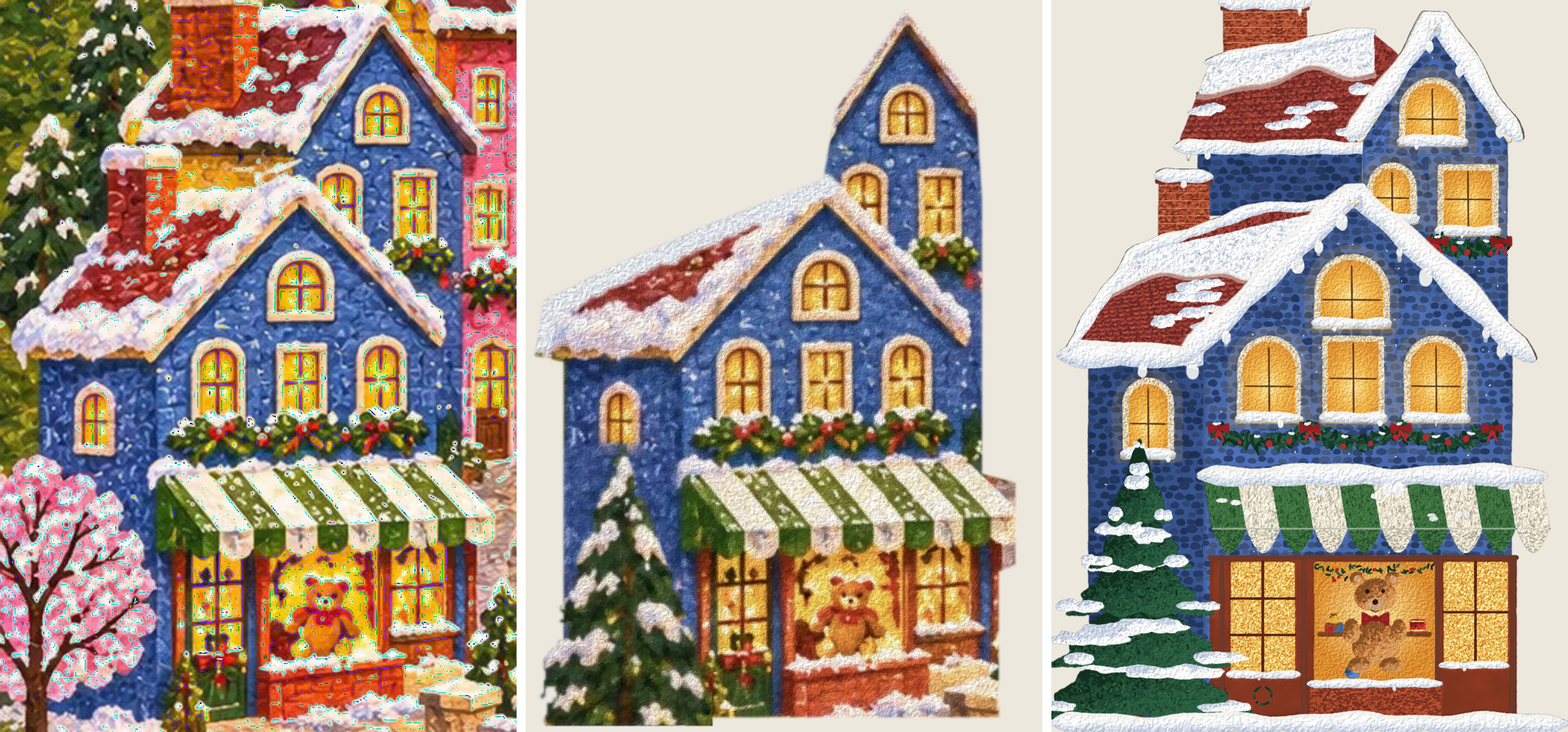
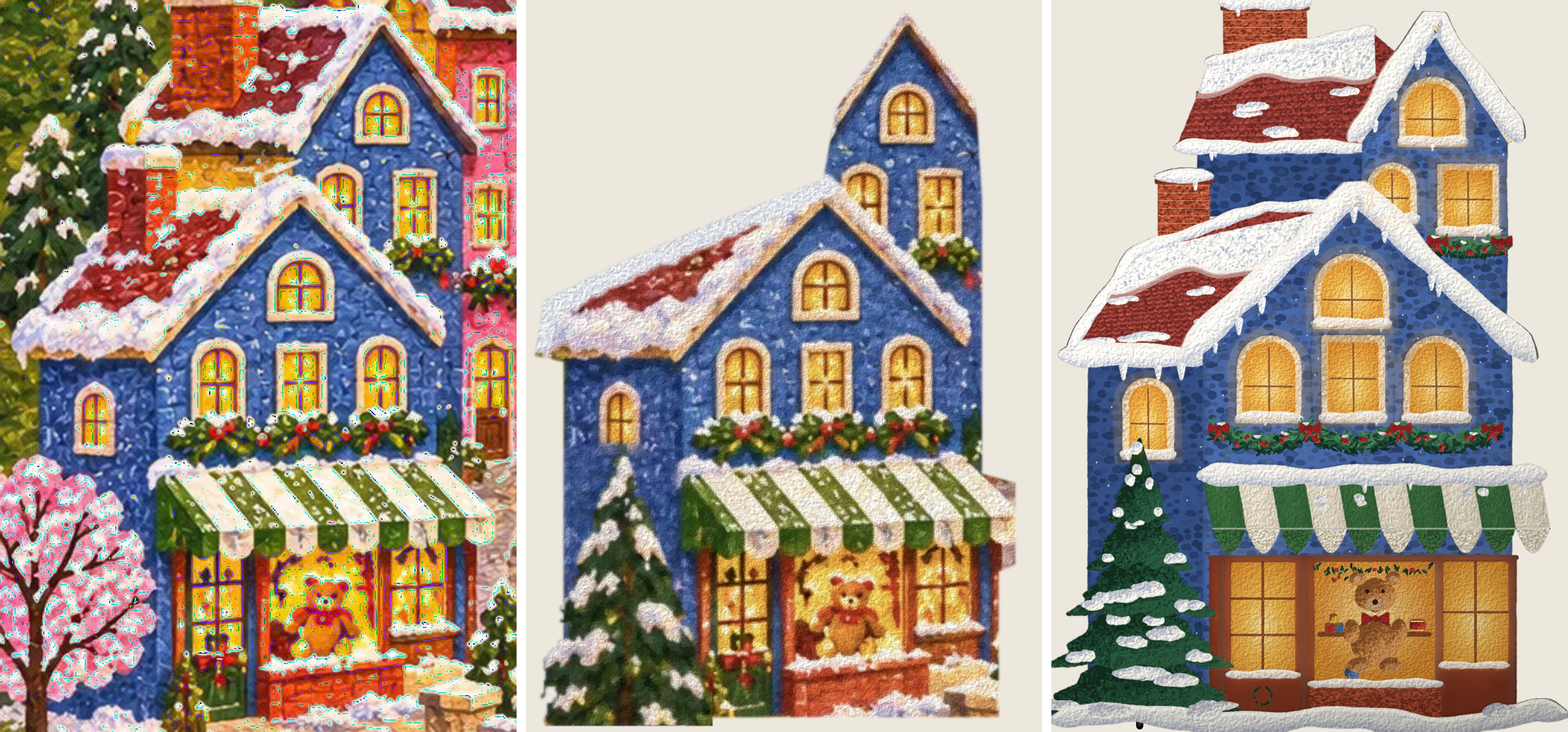
Blue shop v3: lighting pass, window glow on walls, snowy fir rebuilt, tongue drips, banked ground snow, fuller garland, sugary snow
Claude-Session: https://claude.ai/code/session_017tNAHgSCzTbES1SzX2uUW2

Changed region(s): [[0.6562, 0.0311, 1.0, 1.0]]

diff --git a/usmap/closeup/toytown/build_blue_shop.py b/usmap/closeup/toytown/build_blue_shop.py
@@ -30,11 +30,11 @@ R = np.random.RandomState(12)
 BLUE, BLUE_D, BLUE_L = '#4a6cb0', '#37548f', '#6c8ac6'
 CREAM, CREAM_D = '#ecdcbd', '#c9b48f'
 ROOF, ROOF_D = '#953a33', '#6e2925'
-SNOW, SNOW_S, SNOW_H = '#f1f3f7', '#c4cfe0', '#ffffff'
+SNOW, SNOW_S, SNOW_H = '#f3f1ec', '#c6cbd8', '#fffcf5'
 GOLD, GOLD_C, GOLD_E = '#f0b64e', '#fbe19a', '#d98a2e'
 BAR = '#5e3319'
 BRICK, BRICK_D = '#ad4c30', '#7e3220'
-GREEN_A, WHITE_A, GREEN_AD = '#3f7340', '#ece5d2', '#2b5530'
+GREEN_A, WHITE_A, GREEN_AD = '#3f7340', '#f2ead6', '#2b5530'
 WOOD, WOOD_D = '#86361f', '#5e2414'
 NEEDLES = ['#173a29', '#1f4a33', '#2a5e40', '#12301f']
 BERRY = '#b8262a'
@@ -96,13 +96,14 @@ def snow_edge(pts, thick=7.0, drip=.25, under=True):
         col = np.where(k < .5, S1 * (1 - k * 2) + S2 * (k * 2), S2 * (2 - k * 2) + S3 * (k * 2 - 1))
         return np.clip(col * (1 + (r.rand(len(X), 1) - .5) * .05), 0, 1)
     c.stip(m, scol, spacing=1.0, L=2.4, w=1.5, seed=int(R.randint(1 << 20)), jit=.5, thresh=.3)
+    sparkle(m, 1.0)
     if drip:
         idx = sorted(R.choice(np.arange(2, max(3, len(lo) - 2)), size=max(1, int(len(lo) * drip / 6)), replace=False))
         for q in [lo[i] for i in idx]:
             if True:
-                g = R.uniform(.6, 1.4)
-                A(lump(q[0], q[1] + thick * .25 * g, thick * .26 * g, thick * .45 * g, amp=.08), SNOW, wob=.15, rough=.4, edge_dark=.0)
-                S([(q[0], q[1] + thick * .15), (q[0], q[1] + thick * .55)], thick * .2, SNOW_S, a=.35, dry=.4)
+                g = R.uniform(.6, 1.3)          # a soft drip: a tapered tongue of snow, shaded on its right
+                tongue = [(q[0] - thick * .22 * g, q[1] - 1), (q[0] + thick * .22 * g, q[1] - 1), (q[0] + thick * .08 * g, q[1] + thick * .7 * g), (q[0] - thick * .04 * g, q[1] + thick * .75 * g)]
+                shaded(tongue, [SNOW_H, SNOW, SNOW_S], light=(-1, 0), wob=.1, rough=.3, edge_dark=.0, L=1.4, w=1.0)
     S([tuple(q + np.array([0, thick * .12])) for q in up[1:-1]], thick * .28, SNOW_H, a=.6, dry=.45, taper=(.3, .3))
 
 def eave_shadow(pts, thick=8.0, col=None):
@@ -126,16 +127,29 @@ def shaded(pts, cols, light=(-.6, -.8), a=1.0, spacing=.9, L=1.8, w=1.2, **kw):
     c.stip(m, f, spacing=spacing, L=L, w=w, seed=int(R.randint(1 << 20)), jit=.5, thresh=.3)
     return m
 
-def snow_clump(cx, cy, rx, ry, ang=0.0):
+def sparkle(m, density=1.0):
+    """Sugary snow: a scatter of tiny bright crystals and a few cool glints over a snow area."""
+    if m is None: return
+    x0, y0, mm = m; ys, xs = np.nonzero(mm > .8)
+    if len(xs) == 0: return
+    n = int(len(xs) * density / (K * K * 18))
+    for k in R.choice(len(xs), min(n, len(xs)), replace=False):
+        px, py = (xs[k] + x0) / K, (ys[k] + y0) / K
+        c.dab(px, py, R.uniform(.5, 1.1), R.uniform(.45, .75), R.uniform(0, 3), '#ffffff' if R.rand() < .8 else '#dfe8f6', a=.9, dry=0)
+
+def snow_clump(cx, cy, rx, ry, ang=0.0, shadow=None):
     """An irregular clump of snow: two or three overlapping soft heaps, never a neat oval."""
     ca, sa = math.cos(ang), math.sin(ang)
+    if shadow:                                  # the shade the heap casts on what it rests on
+        c.area(T(lump(cx + 1, cy + ry * .55, rx * .95, ry * .5, amp=.1)), hexc(shadow), wob=.2, rough=.5, edge_dark=0, a=.45, var=0, varbig=0, seed=int(R.randint(1 << 20)))
     for k in range(R.randint(2, 4)):
         u = R.uniform(-.55, .55); px, py = cx + ca * rx * u, cy + sa * rx * u - R.uniform(0, ry * .35)
         snow_lump(px, py, rx * R.uniform(.45, .7), ry * R.uniform(.7, 1.0))
 
 def snow_lump(cx, cy, rx, ry):
     """A soft heap of snow: white, lit on top, blue-grey in its lower curve."""
-    shaded(lumpy(cx, cy, rx, ry, int(R.randint(1 << 20)), n=22, bumps=6, amp=.28, flat=.3), [SNOW_H, SNOW, SNOW_S], wob=.3, rough=.6, edge_dark=.0, L=2.0, w=1.3)
+    m = shaded(lumpy(cx, cy, rx, ry, int(R.randint(1 << 20)), n=22, bumps=6, amp=.24, flat=.18), [SNOW_H, SNOW, SNOW_S], wob=.3, rough=.6, edge_dark=.0, L=2.0, w=1.3)
+    sparkle(m, .6)
 
 # ---- walls: gouache ground, then stippled stucco in three blues, flecks of snow ----
 def wall(pts, base, dark=False, fleck=.0):
@@ -149,11 +163,12 @@ def wall(pts, base, dark=False, fleck=.0):
     for gy in np.arange(y0 / K + Y0, (y0 + h) / K + Y0, sp * .8):
         off = R.uniform(0, sp)
         for gx in np.arange(x0 / K + X0 - off, (x0 + w) / K + X0, sp):
-            px, py = gx + R.uniform(-1.5, 1.5), gy + R.uniform(-1.2, 1.2)
+            px, py = gx + R.uniform(-2.4, 2.4), gy + R.uniform(-1.8, 1.8)
             ix, iy = int((px - X0) * K) - x0, int((py - Y0) * K) - y0
             if not (0 <= ix < w and 0 <= iy < h) or mm[iy, ix] < .3: continue
-            c.area(T(lump(px, py, R.uniform(2.8, 4.0), R.uniform(2.2, 3.1), amp=.18)), cols[R.randint(len(cols))], wob=.15, rough=.5,
-                   edge_dark=.38, var=.05, a=.9, seed=int(R.randint(1 << 20)))
+            sz = R.uniform(.7, 1.35)
+            c.area(T(lump(px, py, R.uniform(2.6, 3.8) * sz, R.uniform(2.0, 3.0) * sz, amp=.22)), cols[R.randint(len(cols))], wob=.2, rough=.6,
+                   edge_dark=.3, var=.05, a=.85, seed=int(R.randint(1 << 20)))
     c.clipm = prev
     if fleck:
         ys, xs = np.nonzero(mm > .6)
@@ -194,10 +209,10 @@ def roof(pts, base=ROOF, snowy=.6, ridge=None, eave=None):
         S(bot, 3.0, SNOW_H, a=.6, dry=.35, taper=(.2, .2))
         # drifts lying across the tiles below the blanket: soft, elongated along the slope's contour
         dirx = rb - ra; dirx = dirx / np.linalg.norm(dirx)
-        for _ in range(int(np.linalg.norm(rb - ra) / 14)):
+        for _ in range(int(np.linalg.norm(rb - ra) / 22)):
             t = R.uniform(.05, .95); u = R.uniform(snowy + .1, .9)
             a = ra + (rb - ra) * t; b = ea + (eb - ea) * t; p = a + (b - a) * u
-            snow_clump(p[0], p[1], R.uniform(10, 18), R.uniform(3.2, 4.8), math.atan2(dirx[1], dirx[0]))
+            snow_clump(p[0], p[1], R.uniform(10, 16), R.uniform(2.4, 3.4), math.atan2(dirx[1], dirx[0]), shadow=ROOF_D)
     return m
 
 # ---- windows: cream frame, glowing glass, bars, a sill with snow ----
@@ -210,7 +225,7 @@ def window(x0, y0, x1, y1, arched=True, bars=(1, 1), frame=4.0):
     halo = poly(x0 - frame - 6, y0 - frame - 6, x1 + frame + 6, y1 + frame + 4)
     c.area(T(halo), hexc('#f0b860'), wob=.6, rough=.8, edge_dark=0, a=.16, var=.0, varbig=.0, seed=int(R.randint(1 << 20)))
     fm = A(poly(x0 - frame, y0 - frame, x1 + frame, y1 + frame * .5), CREAM, wob=.25, rough=.5, edge_dark=.18)
-    stip(fm, [CREAM, CREAM, CREAM_D], spacing=.9, L=1.5, w=1.0)
+    shaded(poly(x0 - frame, y0 - frame, x1 + frame, y1 + frame * .5), [CREAM, CREAM, CREAM_D], wob=.25, rough=.5, edge_dark=.12, spacing=1.0, L=2.4, w=1.6)
     gm = A(poly(x0, y0, x1, y1), GOLD, wob=.15, rough=.4, edge_dark=.0)
     cx, cy = (x0 + x1) / 2 - X0, (y0 + y1) / 2 - Y0 + (y1 - y0) * .12; hw, hh = (x1 - x0) / 2, (y1 - y0) / 2
     C0, C1, C2 = hexc(GOLD_C), hexc(GOLD), hexc(GOLD_E)
@@ -237,21 +252,39 @@ def window(x0, y0, x1, y1, arched=True, bars=(1, 1), frame=4.0):
     A([(x0 - frame - 2, y1 + frame * .5), (x1 + frame + 2, y1 + frame * .5), (x1 + frame + 1, y1 + frame * .5 + 3.5), (x0 - frame - 1, y1 + frame * .5 + 3.5)], CREAM_D, wob=.1, rough=.3)
     snow_cap(x0 - frame - 2, x1 + frame + 2, y1 + frame * .5 - .5, 5.0)
 
+def glass(m, cx, cy, hw, hh):
+    """Lit glass: a warm glow, brightest a little below the middle, deeper gold toward the frame."""
+    cx -= X0; cy -= Y0; C0, C1, C2 = hexc(GOLD_C), hexc(GOLD), hexc(GOLD_E)
+    def f(X, Y, r):
+        d = np.clip(np.hypot((X - cx) / hw, (Y - cy) / hh), 0, 1.4)[:, None]
+        col = np.where(d < .6, C0 * (1 - d / .6) + C1 * (d / .6), C1 * np.clip(1.4 - d, 0, 1) / .8 + C2 * np.clip(d - .6, 0, .8) / .8)
+        return np.clip(col * (1 + (r.rand(len(X), 1) - .5) * .05), 0, 1)
+    c.stip(m, f, spacing=.75, L=1.6, w=1.1, seed=int(R.randint(1 << 20)), jit=.5)
+
 # ---- greenery: a garland of needle dabs, berries, little bows, a dusting of snow ----
 def garland(x0, x1, y, sag=6.0, swags=3, bows=True):
     pts = []
     for i in range(swags):
         a, b = x0 + (x1 - x0) * i / swags, x0 + (x1 - x0) * (i + 1) / swags
         for t in np.linspace(0, 1, 9): pts.append((a + (b - a) * t, y + sag * math.sin(math.pi * t)))
-    for (px, py) in pts:
-        for _ in range(16):
-            ang = R.uniform(0, math.pi); ln = R.uniform(5, 8)
-            c.dab(px - X0 + R.uniform(-5, 5), py - Y0 + R.uniform(-4.5, 4.5), ln, R.uniform(1.8, 2.6), ang, NEEDLES[R.randint(4)], a=1, dry=.1)
+    # a fat rope of greenery: a dark core, then layered needle sprays lighter toward the top, holly leaves
+    P0 = T(pts); c.stroke(P0, 9.5, NEEDLES[3], a=1, dry=.2, taper=(.15, .15), seed=int(R.randint(1 << 20)))
+    for layer, (col_set, n, dy) in enumerate(((NEEDLES[3:] + NEEDLES[:1], 14, 2.5), (NEEDLES[1:3], 14, 0), (['#3d7a52', '#4c8a5c'], 7, -2.5))):
+        for (px, py) in pts:
+            for _ in range(n):
+                ang = R.uniform(-.9, .9) + (math.pi / 2 if R.rand() < .5 else 0); ln = R.uniform(4.5, 7.5)
+                c.dab(px - X0 + R.uniform(-5, 5), py - Y0 + dy + R.uniform(-3.5, 3.5), ln, R.uniform(1.5, 2.2), ang, col_set[R.randint(len(col_set))], a=1, dry=.1)
+    for (px, py) in pts[1::3]:
+        for sgn in (-1, 1):
+            hx, hy = px + sgn * R.uniform(2, 4), py + R.uniform(-2, 2)
+            shaded([(hx, hy), (hx + sgn * 6, hy - 2.5), (hx + sgn * 8, hy + 1), (hx + sgn * 3, hy + 2.5)], ['#4c8a5c', '#2f6446', '#1d4430'], wob=.1, rough=.3, edge_dark=.2, L=1.6, w=1.0)
         track((int((px - X0 - 5) * K), int((py - Y0 - 5) * K), np.ones((int(10 * K), int(10 * K)), np.float32)), .0)
     P = np.array(T(pts)) * K
     cv2.polylines(ALPHA, [P.astype(np.int32)], False, 1.0, int(13 * K), cv2.LINE_AA)
     for (px, py) in pts[::2]:
-        c.dots([(px - X0 + R.uniform(-4, 4), py - Y0 + R.uniform(-2, 4))], 1.9, [BERRY], seed=int(R.randint(1 << 20)))
+        for _ in range(2):
+            bx_, by_ = px + R.uniform(-4, 4), py + R.uniform(-2, 4)
+            shaded(lump(bx_, by_, 1.9, 1.9, amp=0), ['#e0504a', BERRY, '#7a1418'], wob=0, rough=.2, edge_dark=.1, L=1.0, w=.8)
     for (px, py) in pts[::3]:
         c.dab(px - X0 + R.uniform(-3, 3), py - Y0 - 4.5, R.uniform(4, 6), 2.2, R.uniform(-.3, .3), SNOW, a=.95, dry=.2)
     if bows:
@@ -314,18 +347,23 @@ def build():
         a, b = i / n, (i + 1) / n
         t0, t1 = ax0 + (ax1 - ax0) * a, ax0 + (ax1 - ax0) * b
         l0, l1 = t0 + 6, t1 + 6
-        col, dark = (GREEN_A, GREEN_AD) if i % 2 == 0 else (WHITE_A, '#bdb6a5')
+        col, dark = (GREEN_A, GREEN_AD) if i % 2 == 0 else (WHITE_A, '#cfc4ac')
         m = A([(t0, ay), (t1, ay), (l1, ly), (l0, ly)], col, wob=.15, rough=.4, edge_dark=.12)
-        stip(m, [col, col, dark], spacing=.9, L=2.6, w=1.0, ang=math.atan2(ly - ay, 6) , weights=[.5, .3, .2])
+        Cc, Cd = hexc(col), hexc(dark); xa, xb = t0 - X0, t1 - X0
+        def fold(X, Y, r, xa=xa, xb=xb, Cc=Cc, Cd=Cd):
+            u = np.clip((X - xa - (Y - (ay - Y0)) * 6 / (ly - ay)) / (xb - xa), 0, 1)       # across the stripe
+            k = np.clip(np.abs(u - .4) * 1.3 + (Y - (ay - Y0)) / (ly - ay) * .25, 0, 1)[:, None]
+            return np.clip(Cc * (1 - k * .55) + Cd * k * .55 + (r.rand(len(X), 1) - .5) * .04, 0, 1)
+        c.stip(m, fold, spacing=.85, L=2.6, w=1.1, angfn=lambda X, Y: np.full(X.shape, math.atan2(ly - ay, 6)), seed=int(R.randint(1 << 20)), jit=.4)
         sc = [(l1 - (l1 - l0) * k / 10, ly + (hem - ly) * math.sin(math.pi * k / 10)) for k in range(11)]
         mv = A([(l0, ly - .5), (l1, ly - .5)] + sc[1:-1], col, wob=.1, rough=.3, edge_dark=.18)
         stip(mv, [dark, col], spacing=.9, L=1.6, w=1.0, ang=0.0, weights=[.45, .55])
     S([(ax0 + 6, ly), (ax1 + 6, ly)], .9, GREEN_AD, a=.5, dry=.4)
     eave_shadow([(ax0 + 8, hem - 2), (ax1 + 6, hem - 2)], 6, WOOD_D)
     snow_edge([(ax0 - 4, ay - 1), (ax1 + 4, ay - 1)], 10.0, drip=.2)
-    for _ in range(9):
-        px = R.uniform(ax0 + 10, ax1 - 4); py = R.uniform(ay + 6, ly - 4)
-        A(lump(px, py, R.uniform(3, 6), R.uniform(1.4, 2.4)), SNOW, wob=.15, rough=.4, edge_dark=.04)
+    for _ in range(4):
+        px = R.uniform(ax0 + 14, ax1 - 8); py = R.uniform(ay + 8, ay + 18)
+        snow_clump(px, py, R.uniform(5, 8), R.uniform(2.2, 3.0), math.atan2(ly - ay, 6) - math.pi / 2 + 1.4)
     # the shopfront: dark wooden posts, the display with the bear, side windows, a brick plinth
     A([(104, 902), (306, 902), (306, 796), (104, 796)], WOOD, wob=.15, rough=.4, edge_dark=.12)
     # display window
@@ -373,7 +411,7 @@ def build():
     # side windows: lit glass behind a wooden grid
     for (sx0, sy0, sx1, sy1), (nb, nh) in (((118, 800, 160, 872), (1, 2)), ((258, 800, 300, 866), (1, 1))):
         g = A([(sx0, sy1), (sx1, sy1), (sx1, sy0), (sx0, sy0)], GOLD, wob=.1, rough=.3, edge_dark=.1)
-        stip(g, [GOLD_C, GOLD, GOLD_E], spacing=.8, L=1.3, w=.95, weights=[.35, .45, .2])
+        glass(g, (sx0 + sx1) / 2, (sy0 + sy1) / 2 + 6, (sx1 - sx0) / 2, (sy1 - sy0) / 2)
         x0_, y0_, mm = g; GLOW[y0_:y0_ + mm.shape[0], x0_:x0_ + mm.shape[1]] = np.maximum(GLOW[y0_:y0_ + mm.shape[0], x0_:x0_ + mm.shape[1]], mm)
         for i in range(1, nb + 1):
             xx = sx0 + (sx1 - sx0) * i / (nb + 1); S([(xx, sy0), (xx, sy1)], 2.0, WOOD_D, a=1, dry=.05, taper=(0, 0))
@@ -396,7 +434,11 @@ def build():
     # the snowy fir in front of the side wing (in place of the blossom tree)
     fir(58, 908, 190)
     # snow on the ground along the front
-    snow_edge([(0, 906), (340, 906)], 9.0, drip=0)
+    # snow banked along the foot of the building, deeper by the fir and the corners
+    bank = [(x, 905 - 3 * math.sin(x / 23) - 4 * math.exp(-((x - 60) / 40) ** 2) - 3 * math.exp(-((x - 320) / 25) ** 2)) for x in np.linspace(0, 340, 30)]
+    snow_edge(bank, 11.0, drip=0)
+    for x in (40, 95, 300):
+        snow_clump(x, 900, R.uniform(14, 20), 6)
 
 def fir(x, y, h):
     """A fir of drooping, jagged branch tiers (dark needles, lit edges), with irregular clumps of snow lying on
@@ -414,15 +456,29 @@ def fir(x, y, h):
         for k in range(nt, 0, -1):
             u = k / nt; poly += [(x - half * u + R.uniform(-1.5, 1), yt + (yb - yt) * u + 2.5), (x - half * u * .72 + R.uniform(-1, 1), yt + (yb - yt) * u * .92 - 2)]
         shaded(poly, [NEEDLES[2], NEEDLES[1], NEEDLES[3]], wob=.5, rough=1.0, edge_dark=.22, L=3.2, w=1.3)
-        for _ in range(2 + (i < 2)):                            # snow lying on the tier
-            u = R.uniform(.35, .85); px = x + R.uniform(-1, 1) * half * u * .7; py = yt + (yb - yt) * u - 2
-            snow_clump(px, py, half * R.uniform(.4, .55), R.uniform(4.5, 6.5))
-        for sg in (-1, 1):                                      # and caught at the outer tips
-            snow_clump(x + sg * half * .8, yb - 1.5, half * .3, 4.5)
-    snow_clump(x, y - h * .97, 4, 3.5)
+        for _ in range(3 + (i < 2)):                            # snow lying on the tier, inside its silhouette
+            u = R.uniform(.4, .9); wu = half * u; rx = wu * R.uniform(.3, .42)
+            px = x + R.uniform(-1, 1) * max(0, wu - rx) * .8; py = yt + (yb - yt) * u - 2.5
+            snow_clump(px, py, rx, R.uniform(4.2, 5.6), shadow=NEEDLES[3])
+        for sg in (-1, 1):                                      # small heaps caught near the branch tips
+            snow_clump(x + sg * half * .66, yb - 3, half * .2, 4.0, shadow=NEEDLES[3])
+    snow_clump(x, y - h * .96, 5, 4.5)
+
+def light():
+    """The lighting a painter adds last: light from the upper left across the whole building, shade
+    gathering toward the ground and the right, and the warm glow of the windows spilling onto the walls."""
+    yy, xx = np.mgrid[0:c.H, 0:c.W].astype(np.float32)
+    g = 1.07 - .14 * (xx / c.W) - .16 * np.clip((yy / c.H - .35) / .65, 0, 1)
+    g -= .1 * np.clip((yy / c.H - .9) / .1, 0, 1)                         # shade near the ground
+    c.img *= g[..., None]
+    spill = cv2.GaussianBlur(GLOW, (0, 0), 7 * K)
+    warm = np.array(hexc('#ffb060'))
+    lit = np.clip(spill * 1.6, 0, 1)[..., None] * (1 - GLOW[..., None])
+    c.img[:] = c.img + (warm - c.img) * lit * .28
 
 if __name__ == '__main__':
     build()
+    light()
     impasto(c, strength=.22)
     paint = np.clip(c.img, 0, 1); al = np.clip(cv2.GaussianBlur(ALPHA, (0, 0), .5), 0, 1)
     cv2.imwrite(os.path.join(OUT, 'blue_shop_v3_study.png'), (np.dstack([paint[..., ::-1], al]) * 255).astype(np.uint8))

diff --git a/usmap/closeup/toytown/context_v3.py b/usmap/closeup/toytown/context_v3.py
@@ -1,0 +1,23 @@
+"""The built blue shop (v3) placed in Toy Town at the detail layer's real scale, on the fit-check composite
+(the neighbours still in the target painting's texture). Preview only."""
+import os, sys
+import numpy as np, cv2
+from PIL import Image, ImageFilter, ImageDraw
+HERE = os.path.dirname(os.path.abspath(__file__)); ROOT = os.path.join(HERE, '..', '..', '..')
+sys.path.insert(0, os.path.join(ROOT, 'docs', 'toytown_layout'))
+import make_sketches as M, fit_check as FC
+det = M.stitch(os.path.join(M.ROOT, 'tiles', 'detail_files', '13'), 5, 4)
+S = FC.S; ox, oy = int(round(FC.OX)), int(round(FC.OY))
+big = FC.T.resize((int(FC.T.width * S), int(FC.T.height * S)), Image.LANCZOS)
+lay = Image.new('RGB', det.size); lay.paste(det); lay.paste(big, (ox, oy))
+m = Image.new('L', det.size, 0)
+ImageDraw.Draw(m).polygon([FC.t2d(p) for p in [(170, 20), (1230, 20), (1260, 330), (1350, 790), (1350, 900), (1080, 990), (700, 1010), (330, 990), (20, 900), (20, 560), (170, 380)]], fill=255)
+comp = np.asarray(Image.composite(lay, det, m.filter(ImageFilter.GaussianBlur(60)))).astype(np.float32) / 255
+a = cv2.imread(os.path.join(HERE, 'out', 'blue_shop_v3_study.png'), cv2.IMREAD_UNCHANGED).astype(np.float32) / 255
+k = S / 4; a = cv2.resize(a, None, fx=k, fy=k, interpolation=cv2.INTER_AREA)
+px, py = [int(round(v)) for v in FC.t2d((0, 430))]; h, w = a.shape[:2]
+reg = comp[py:py + h, px:px + w]; al = a[..., 3:]
+comp[py:py + h, px:px + w] = reg * (1 - al) + a[..., 2::-1] * al
+out = (np.clip(comp, 0, 1) * 255).astype(np.uint8)
+Image.fromarray(out[py - 200:py + h + 150, max(0, px - 150):px + w + 700]).save(os.path.join(HERE, 'out', 'blue_shop_v3_in_context.jpg'), quality=90)
+print('ok')
